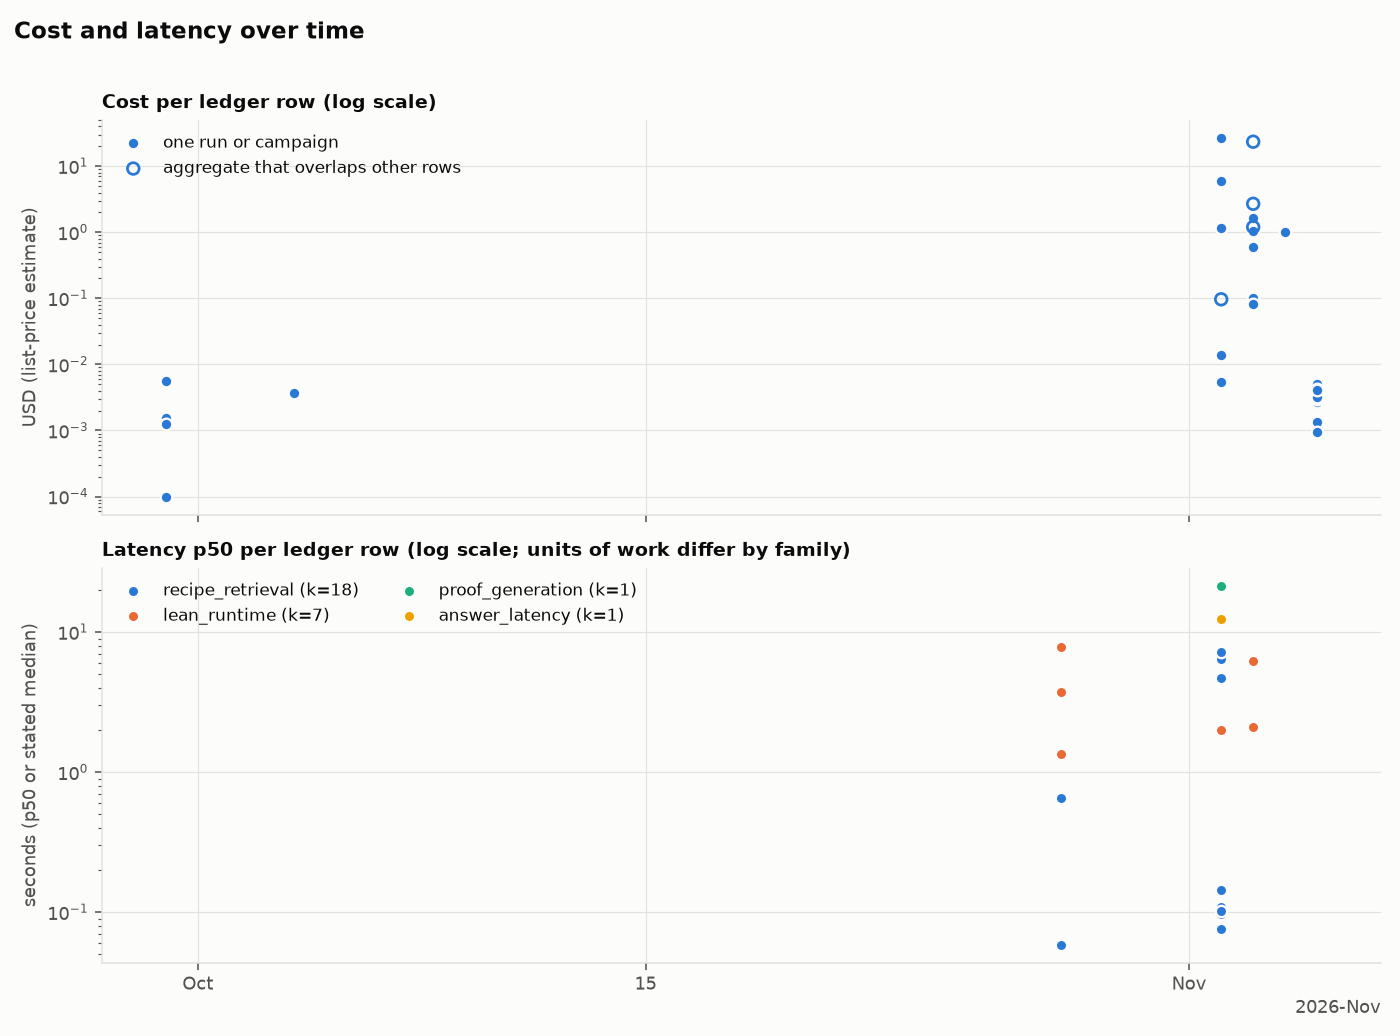
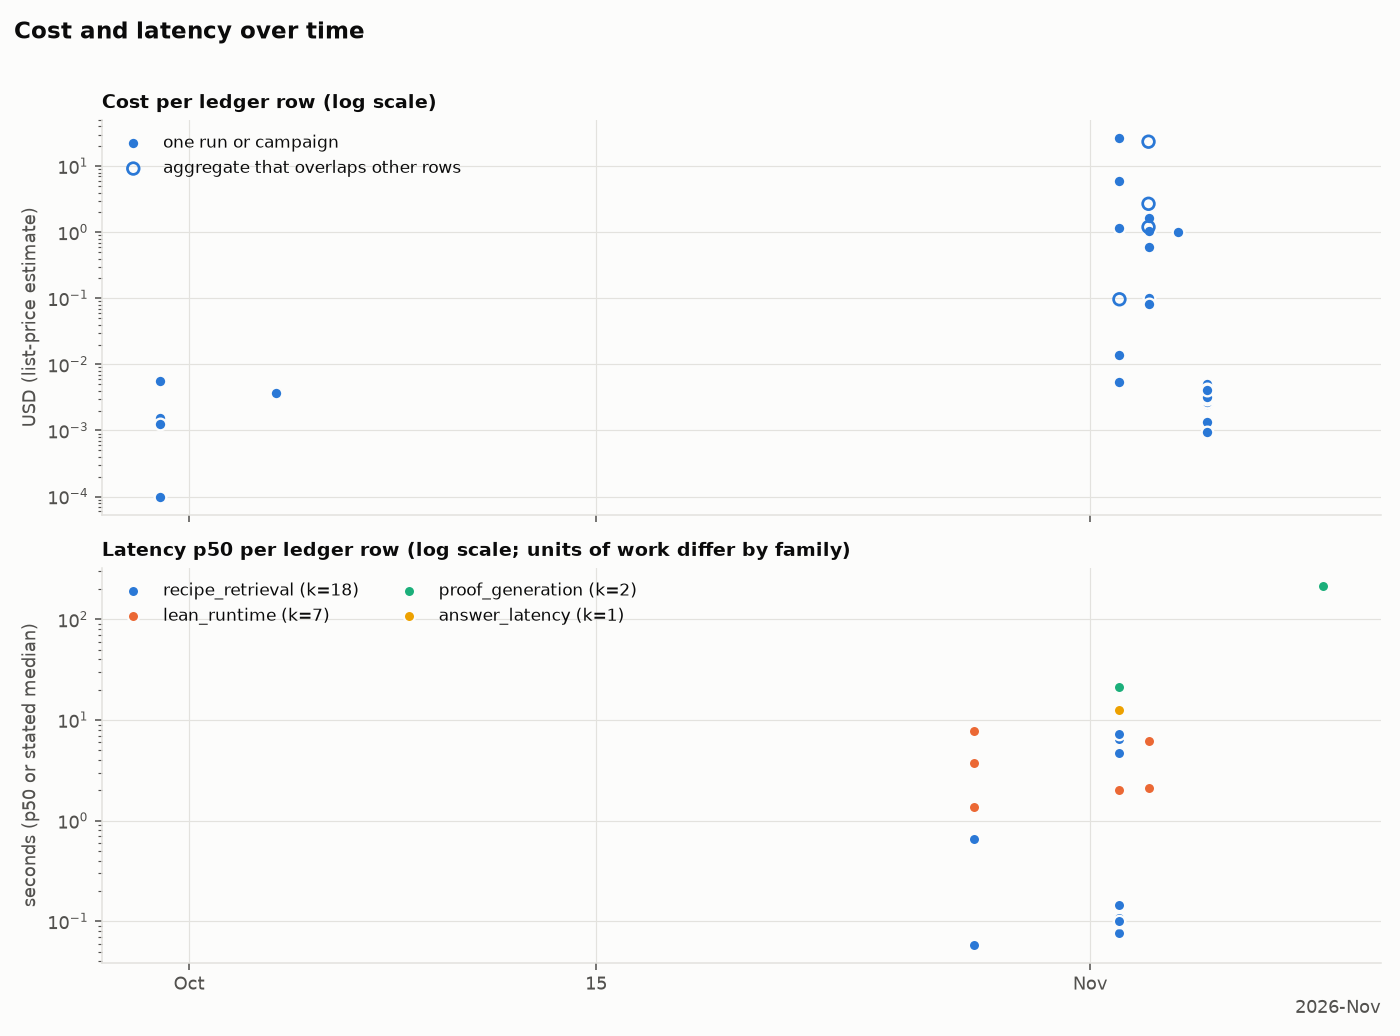
Record real CloudWatch proof-quality observations and partial coverage

diff --git a/docs/prompt-quality-live-evidence-2026-11-09.md b/docs/prompt-quality-live-evidence-2026-11-09.md
@@ -59,7 +59,7 @@ using the deployed generator and independent provider-available snapshot
 the ten-request rolling-hour limit remains enforced. No candidate improvement is
 claimed from a single baseline.
 
-Before collection, actual SSM read-back matched the signed sequence-28 release:
+An earlier preparation snapshot matched the signed sequence-28 release:
 API `14e9bf93c9eece11d8e6f2d316936a519ba00610`, worker
 `b27f1d8292391567a2ca15f103eb08b18dc016c4`, with seven protected containers unchanged.
 The actual eligible Japanese Recipe catalog had 13 entries and SHA-256
@@ -78,11 +78,69 @@ brokers. The measurement Terraform apply did not touch load balancing.
 
 This task did not blindly reregister the target or interfere with a release.
 Public serving later returned without an application mutation from this task.
-Fresh read-back again confirmed the same sequence-28 services and catalog.
+Read-back during that preparation again confirmed the same sequence-28 services and catalog.
 The user's access token had meanwhile expired: its actual validity is 900 seconds.
 The helper now detects expiry and performs normal local sign-in again, with no
 long-lived refresh credential stored. Collection deadlines are fingerprinted and
-the initial batch is bounded to 780 seconds. A fresh local session is the current
-prerequisite. No benchmark chat/request/journal has been created, and no quality
-observation has been fabricated or published. Resume collection immediately after
-fresh sign-in, recheck the cohort, then publish/fetch and chart the real results.
+the initial batch is bounded to 780 seconds. These statements describe preparation,
+before the actual collection below; they are not the current execution status.
+
+## 初回の実評価
+
+2026年11月9日08:52:58 JSTに、利用者の通常アカウントで実評価を開始しました。
+固定した8題のうち、3題は回答・Lean検証・独立した説明採点まで完了しました。
+1題は観測終了時に処理中、4題は未送信でした。未完了を数学的失敗や0点には
+置き換えていません。完了した3題は、平方関数の連続性、絶対値関数の原点での
+微分不能性、平方根2の無理性です。
+
+| 項目 | 初回観測 |
+|---|---:|
+| 計画した題数 | 8 |
+| 送信した題数 | 4 |
+| 回答・Lean検証・採点まで完了 | 3 |
+| 処理中 | 1 |
+| 未送信 | 4 |
+| 終端した失敗 | 0 |
+
+採点済み3題の平均は、数学的妥当性0.9933、論理の十分さ0.9600、記号の一貫性
+0.9600、学部生への説明の分かりやすさ0.9267、簡潔さ0.9367でした。
+いずれも0〜1の独立LLM評価であり、学習者の理解度や数学全般の正答率ではありません。
+5題は未採点です。完了3題の所要時間は12.206445秒、216.999681秒、365.152209秒で、
+平均198.119445秒、nearest-rankのp50は216.999681秒でした。少数標本の最大値を
+代表的なp95として台帳には記録しません。処理中の1題は163.067453秒の観測下限であり、
+完了時間には含めません。費用と使用tokenの実測値は取得できていないため空欄です。
+
+### 稼働版の訂正
+
+準備時のsequence 28のmanifestは、実評価開始時には古くなっていました。
+稼働中のAPIにマウントされた署名付きmanifestを読み直すと、実際にはsequence 29、
+worker source `427caf8abadfc581bf5e33fc587cf2a24ee212ab`でした。
[1 lines of base64/hex data omitted]
+API source、verifier source、対象カタログは準備時と同じです。
+
+元の記録・manifest・journalを保持し、別run IDの訂正版を作りました。
+版の識別情報だけを訂正し、題材、採点器、点数、検証結果、時刻、所要時間が
+変わっていないことを検査しました。既知の本番2ホストで同じ版のworkerだけが稼働し、
+全依頼がその起動後に処理され、再起動がないことを確認しました。
+これは稼働コンテナと処理履歴による運用上の照合です。各ジョブからコード版への
+暗号学的な署名や、未観測の外部consumerの排除は主張しません。
+同じ実験の元記録と訂正版を、独立した2回の評価として集計しません。
+
+今回は比較前の初回観測です。プロンプト変更による改善率は測定していません。
+認証の更新後は、保存したjournalから処理中の依頼を読み取りで回収し、未送信の題だけを
+通常のAPIへ送ります。処理中の証明を重複送信しません。
+
+### CloudWatchの保存・取得とグラフ
+
+訂正版のrun IDは`seq29-ja-baseline-20261109-001-partial-cut1`です。
+検証済みの内容を実際の`/pals/prod/prompt-quality`へ保存し、同一内容の読み戻しを
+確認しました。その後、CLIの`fetch`で別ファイルへ取得し、保存元と完全に一致することを
+再検査しました。正規化した記録のSHA-256は
[1 lines of base64/hex data omitted]
+古い版情報を含む元記録はCloudWatchへ送信していません。
+
+チャット内の3グラフは、取得した記録から確認件数、5指標、題ごとの所要時間を表示します。
+全数値を取得原本と照合し、実ブラウザーの通常幅・360px・320pxで描画と文字切れを
+確認しました。未送信の時間は空欄で、処理中は完了時間と区別して観測下限を表示します。
+JSONL・集計JSON・CSV・訂正の証跡は、認証情報と分けてGit外の非公開領域に保持します。
+今回の3件を数学全般の精度や、完成した8件のベンチマークとして扱いません。

diff --git a/specs/prompt-quality/tasks.md b/specs/prompt-quality/tasks.md
@@ -1,6 +1,6 @@
 # Implementation and verification tasks
 
-Baseline: WORKING. Checkmarks describe local implementation evidence only.
+Baseline: WORKING. Local checks, infrastructure deployment and live observations are distinguished below.
 
 - [x] PQ-001/PQ-002: Add explicit runtime runner, provenance and independent undergraduate rubric; retain unavailable observations and current chat routing.
 - [x] PQ-003: Add controlled paired comparison, coverage bounds, outcome rates, regression counts and case-cluster uncertainty.
@@ -10,6 +10,7 @@ Baseline: WORKING. Checkmarks describe local implementation evidence only.
 - [x] PQ-001–PQ-007: Run focused tests, upstream observability regressions, static checks and infrastructure validation; see the evidence record.
 - [x] PQ-008/PQ-009 implementation: add the real owner-scoped API runner, independent catalog/job evidence checks, private resumable journal, normal sign-in helper and pending/not-submitted states. Contract tests passed; production proof observations remain below.
 - [x] PQ-010 infrastructure: deploy the five measurement resources in separate encrypted/locked state, with no application updates/deletions.
-- [ ] Real baseline: execute the six-proof/two-concept run on the selected account after production ingress is serving, verify deployment/catalog identity before/after, and retain genuine failures/missingness.
-- [ ] CloudWatch/chart evidence: publish/read back/fetch the real baseline and render fetched observations in chat. No synthetic replacement is permitted.
+- [x] Initial partial observation: execute the bounded eight-case collector on the selected account. Three proof answers were delivered, independently Lean-verified and scored; one request remained pending and four were not submitted. Preserve the original stale preparatory identity and publish only the separately identified, operator-attested sequence-29 correction with unchanged measurements.
+- [ ] Remaining baseline coverage: recover the pending request without resubmission and collect the four unsubmitted cases after normal account authentication is renewed. Keep continuation overlap explicit; do not count the first observation twice.
+- [x] CloudWatch/chart evidence: publish/read back/fetch the actual partial observation, verify exact equality, and render its real counts, scores and timing in chat. Eight completed observations or prompt improvement are not claimed.
 - [ ] Later candidate/calibration: compare a distinct candidate on equal controls and calibrate blind samples with human reviewers before claiming improvement.
